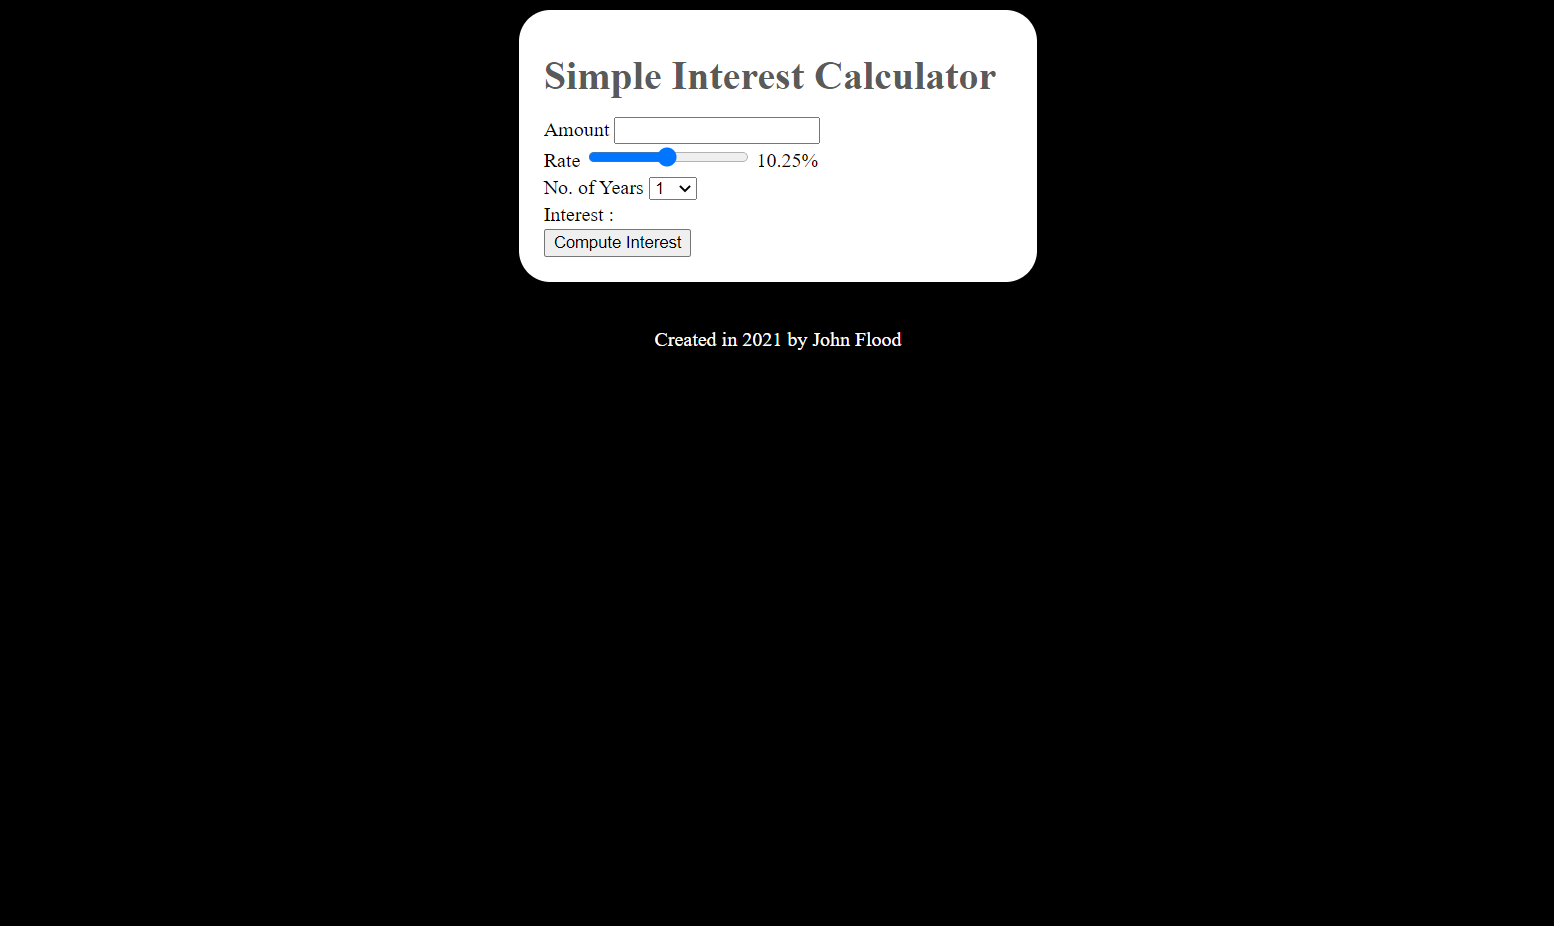
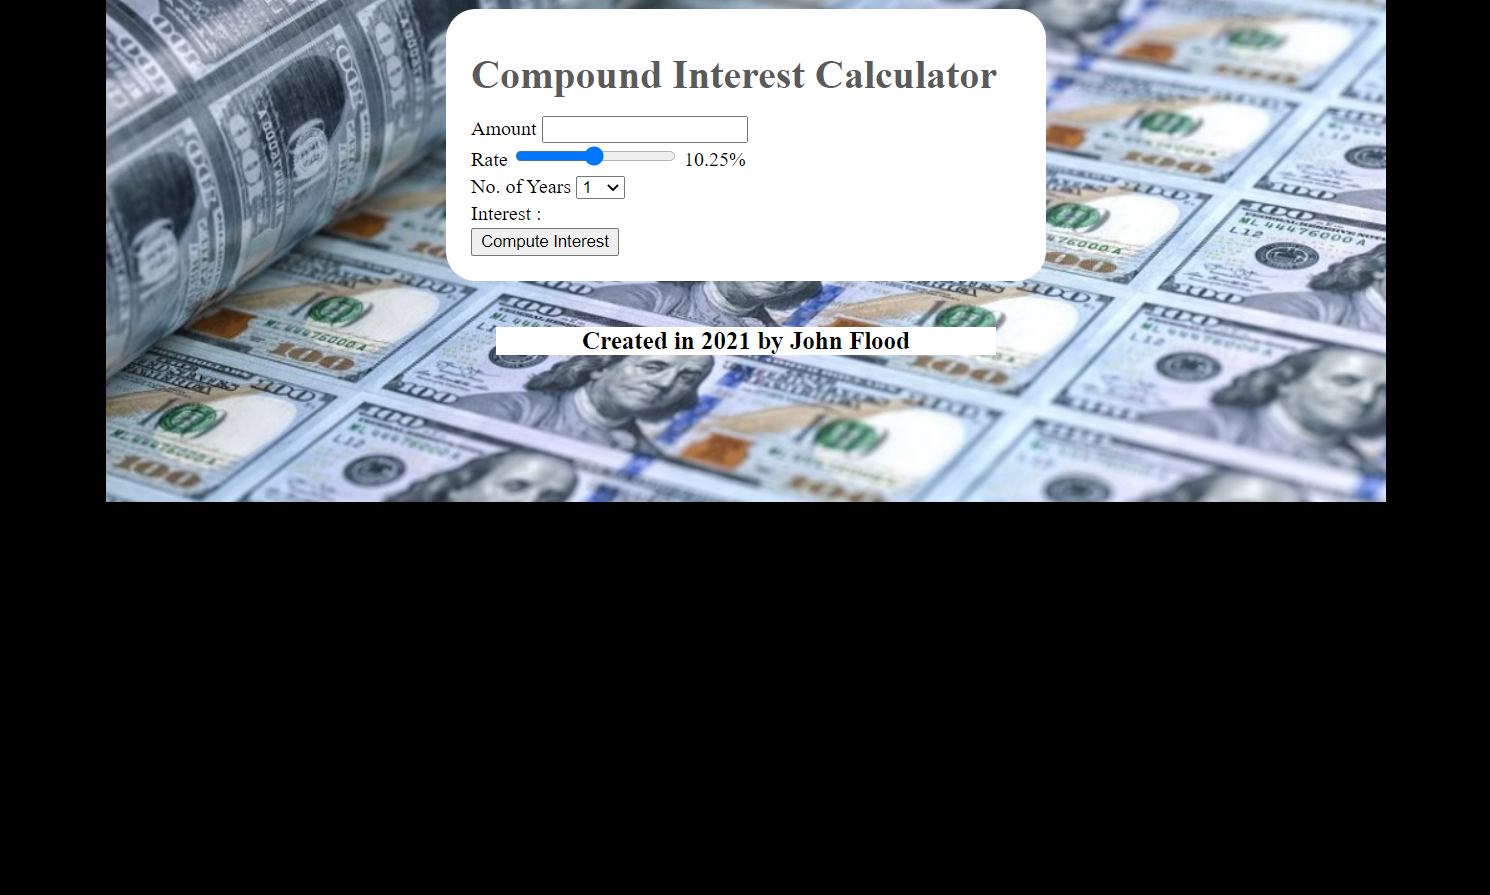
updated portfolio section

diff --git a/index.html b/index.html
@@ -134,8 +134,8 @@
           
           <img src="assets/interestcalc.png" class="card-img-top" alt="Interest Calculator">
           <div class="card-body">
-            <h5 class="card-title">Simple Interest Calculator</h5>
-            <p class="card-text">A simple interest calculator created with HTML, CSS, and DOM manipulation via vanilla JavaScript. This project was part of an IBM Cloud Computing course that I took.</p>
+            <h5 class="card-title">Compound Interest Calculator</h5>
+            <p class="card-text">A compound interest calculator created with HTML, CSS, and DOM manipulation via vanilla JavaScript. This project was part of an IBM Cloud Computing course that I took.</p>
             <a href="https://jflood215.github.io/vftvk-Simple-Interest-Calculator/" target="_blank" class="button-color btn btn-dark">Visit Website</a>
           </div>
         </div>
